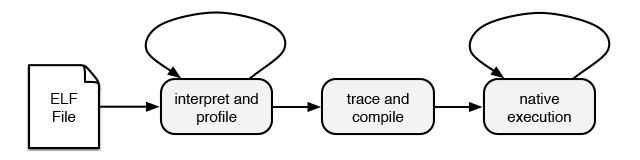
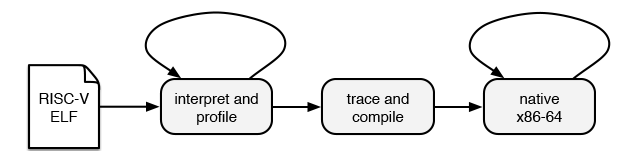
Update diagram and add figure text

Changed region(s): [[0.7812, 0.6875, 0.9062, 0.7812], [0.0625, 0.5625, 0.1562, 0.6562], [0.0625, 0.6875, 0.125, 0.7812]]

diff --git a/index.md b/index.md
@@ -11,6 +11,8 @@ The rv8 simulator suite contains libraries and command line tools for creating i
 
 ![rv8 binary translation]({{ site.url }}/images/bintrans.png)
 
+_*Figure 1: RISC-V to x86-64 binary translation*_
+
 The rv8 binary translation engine works by interpreting code while profiling it for hot paths. Hot paths are translated on the fly to native code. The translation engine maintains a call stack to allow runtime inlining of hot functions. A branch target cache is used to accelerate returns and indirect calls through function pointers. The translator supports hybrid binary translation and interpretation to handle instructions that do not have native translations. Currently ‘IM’ code is translated and ‘AFD’ is interpreted. The translator supports RVC compressed code.
 
 The current version is available [here](https://github.com/rv8-io/rv8).
